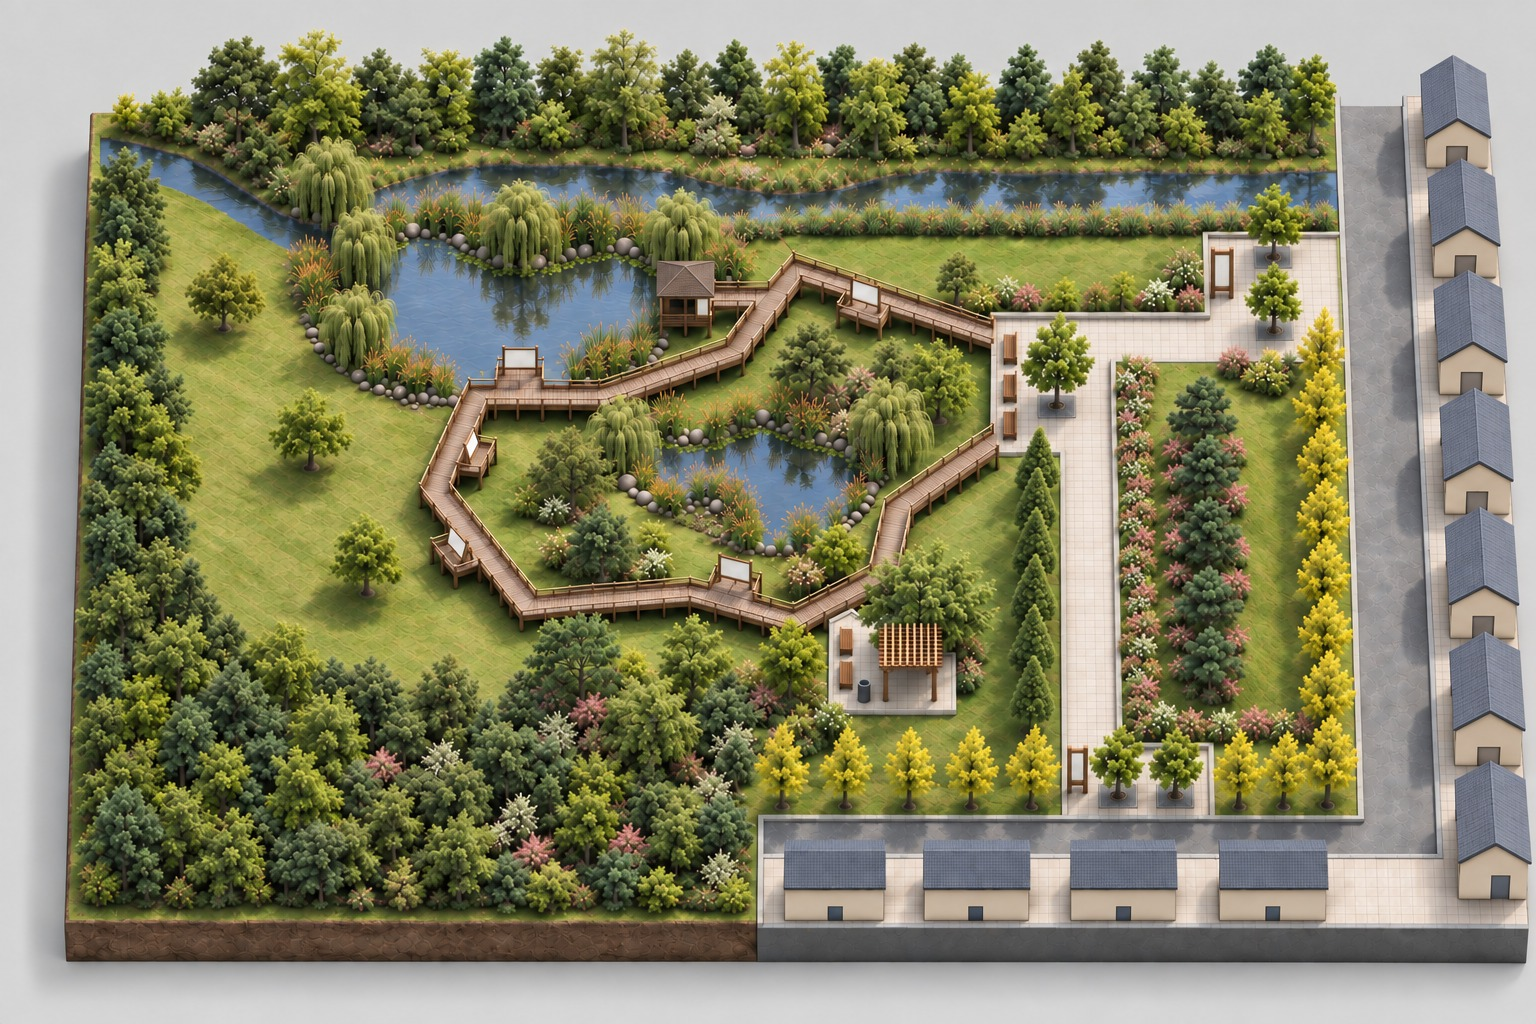
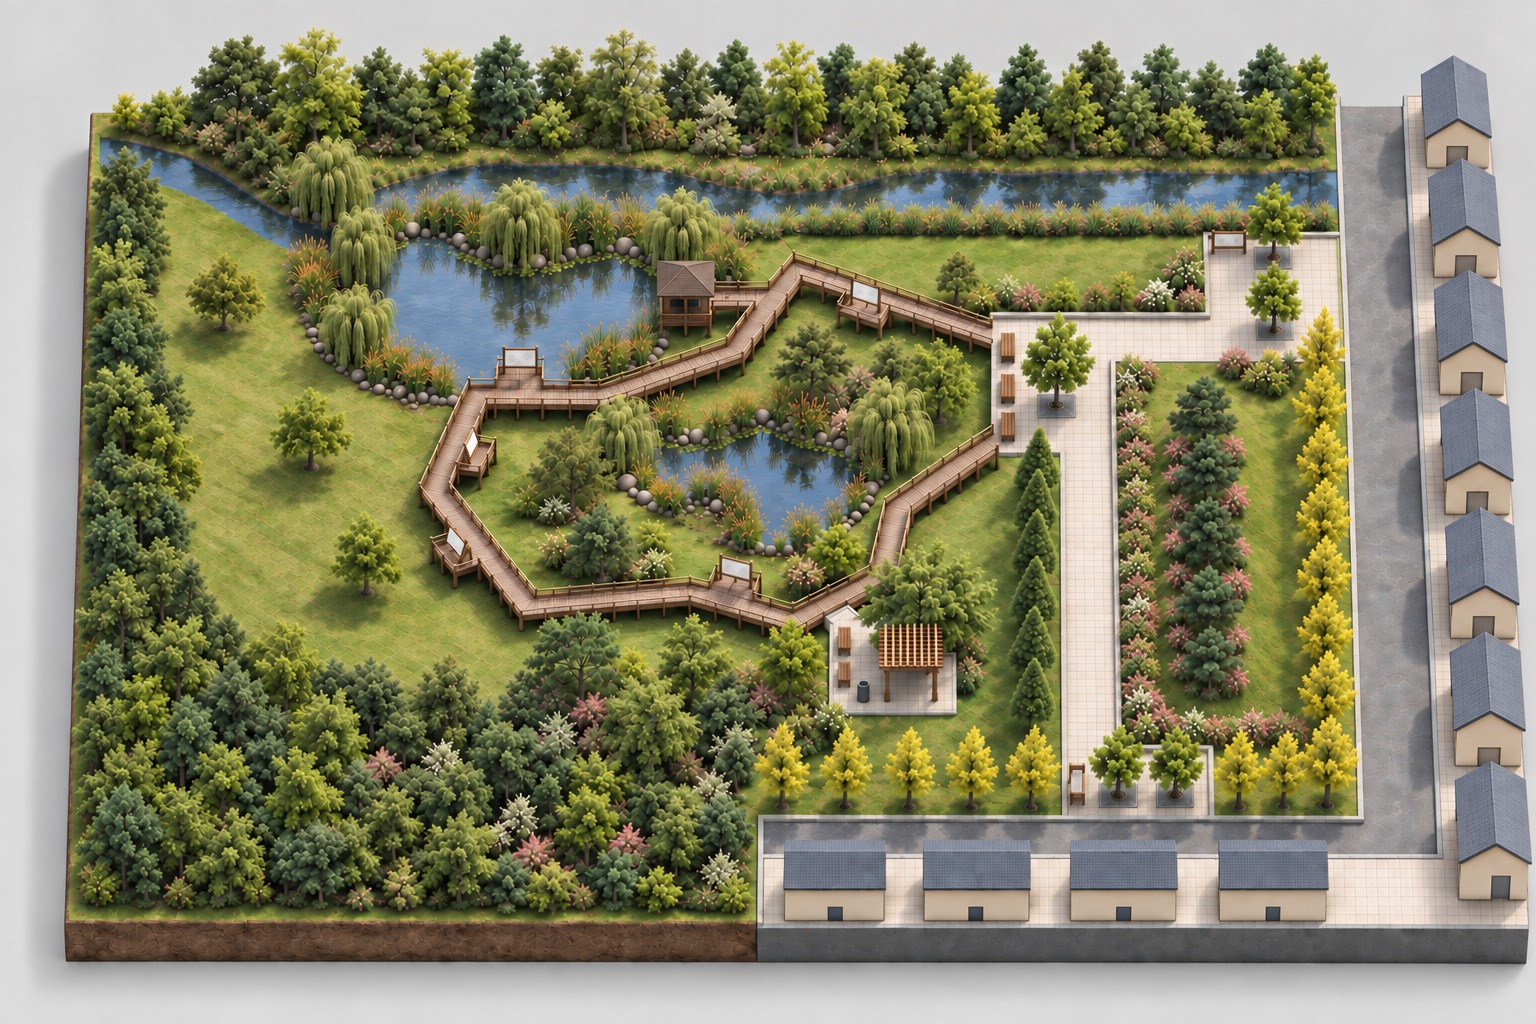
조감도·입체평면도 401: 진입광장 안내판 90도 회전, 판에 흐린 무늬
사용자 지적 셋. ① 진입광장 안내판이 포장과 관목이 만나는 경계선과 직각이라
어색하다 — 제자리에서 90도 돌려 그 선과 나란하게, 관목을 등지고 광장 안쪽을
바라보게 했다. ② 안내판은 도면처럼 진입광장마다 한 개씩. ③ 빈 미색 판이
오히려 눈을 끈다 — 읽히지 않을 만큼 흐린 회색 무늬(윗부분 작은 그림, 아래
글줄 두세 줄)를 넣어 질감을 주었다. 또렷한 글자는 없다.

관찰데크 5개와 조류관찰소 안내판은 제 데크 난간과 나란한 그대로 두었다.

조감도 12회차 선명도 2942(기준 2500), 입체평면도 21회차 1052(기준 1016).
입체평면도 평행투영 그대로 — 동측 도로 띠 왼끝 1353·1356·1361px,
좌변 -14px · 우변 +31px.

My 조감도는 같은 수정이 선명도를 1900 → 1567(-18%)로 떨어뜨려 기준(-12%)에
미달해 채택하지 않았다. 지금 배포본(9회차)을 그대로 둔다.

diff --git a/_ls_drawing_refs/401_입체평면도/content.md b/_ls_drawing_refs/401_입체평면도/content.md
@@ -1,5 +1,5 @@
 'My' 탭의 색 배치도와 '성운' 탭의 **기본설계도 · 배식설계도**를 GPT 이미지 모델
-(gpt-image-2.5-sunburst)에 주고 만든 **입체평면도**입니다(19회차).
+(gpt-image-2.5-sunburst)에 주고 만든 **입체평면도**입니다(21회차).
 
 '조감도' 탭과 달리 **원근이 없는 평행투영(축측투영)** 입니다. 멀리 있는 것도 가까이 있는 것과
 같은 크기로 그려지므로 **평면도와 그대로 견주어 볼 수 있습니다** — 주택 여덟 채가 모두 같은
@@ -73,6 +73,10 @@
 19. 다시 13회차로 돌아가 네 가지(가장자리 띠 · 평의자 3 · **판면을 아주 연한 미색으로** ·
     **진입광장 안내판을 광장 변과 나란히**)를 한 번에 그렸습니다(19회차). 선명도가 **1117** 로
     18회차(1038)보다 올랐고, 평행투영도 그대로입니다 — 동측 도로 띠 왼끝 1353·1356·1361px
+20·21. 다시 13회차로 돌아가 두 가지를 더했습니다 — **진입광장 안내판을 제자리에서 90° 돌려**
+    판의 긴 변이 포장과 관목이 만나는 경계선과 나란해지게 하고(그 전에는 직각), 빈 미색 판이
+    눈을 끌지 않도록 **읽히지 않을 만큼 흐린 회색 무늬**를 넣었습니다. 안내판은 **진입광장마다
+    하나씩**입니다. 선명도 1052, 평행투영 그대로
 
 > 회차마다 색 배치도와 배식설계도를 첫 두 참고 그림으로 다시 주고, 앞 회차 그림을 셋째로 줍니다.
 > 마스크 부분 수정이나 그림을 손으로 자르고 돌리는 일은 하지 않습니다.
@@ -95,7 +99,7 @@
 10회차 1351·1349·1361px, 16회차 1353·1356·1361px 로 같고, 모형 왼쪽 변 기울기도
 10회차 −18px, 16회차 −16px(730px 기준)로 같습니다.
 
-## 도면과 대조 (19회차)
+## 도면과 대조 (21회차)
 
 | 항목 | 도면 | 그림 |
 | --- | --- | --- |
@@ -113,16 +117,17 @@
 | 진입광장 | 2개소(북동 모서리 · 남측), 종합안내판 1 · 수목보호대 2씩, 도로로 바로 열림 | ✓ 보호대 합계 5개(모임광장 1 + 진입광장 2+2) |
 | 남북 동선 | 두 진입광장을 잇는 소형고압블록 포장 | ✓ 동측 도로와 평행 |
 | 배식 | 동선 서쪽 메타세쿼이아 열식 · 동쪽 마운딩에 소나무 7 + 철쭉 · 도로변 은행나무 열식 · 산림지구 다층림 · 저수지·관찰로 서쪽은 열린 잔디 | ✓ 마운딩은 잔디 언덕에 소나무 7주(13회차), 서쪽 변과 남쪽 변을 따라 끊기지 않는 꽃관목 띠(16회차) |
-| 안내판 판면 | — | ✓ 아주 연한 미색 — 옆 포장과 비슷한 밝기라 흰 점으로 도드라지지 않습니다. 진입광장 안내판도 광장 변과 나란히(19회차) |
+| 안내판 판면 | — | ✓ 아주 연한 미색에 **읽히지 않는 흐린 무늬** — 옆 포장과 비슷한 밝기 |
+| 안내판 방향·수 | — | ✓ 진입광장 안내판은 **포장·관목 경계선과 나란히**, 광장마다 **1개씩**. 관찰데크 5 · 조류관찰소 1 은 그대로 |
 | 글자 | 없음 | ✓ |
 
 남은 차이는 둘입니다. ① **저수지가 도면보다 조금 동쪽·넓습니다**(도면 부지 폭의 14~44%, 그림 약 19~50%). ② **남측 도로가 55% 지점에서 시작**합니다(도면 50%).
 
-비용은 19장 약 $0.92 입니다(16~19회차만 `xhigh` 품질이라 장당 $0.074).
+비용은 21장 약 $1.07 입니다(16~21회차만 `xhigh` 품질이라 장당 $0.074).
 
-## 프롬프트 — 마지막 회차(19회차, 참고: 색 배치도 + 배식설계도 + 13회차 그림)
+## 프롬프트 — 마지막 회차(21회차, 참고: 색 배치도 + 배식설계도 + 13회차 그림)
 
-13회차 그림을 함께 주고 고칠 넷만 적은 것입니다. 1~18회차 프롬프트는 뺐습니다.
+13회차 그림을 함께 주고 고칠 넷만 적은 것입니다. 1~20회차 프롬프트는 뺐습니다.
 
     The FIRST attached image is the colour-coded site plan of a small Korean ecological park. The SECOND is its hand-drawn planting plan. The THIRD attached image is a PHOTOREALISTIC axonometric render of the same park. Its LAYOUT, its CAMERA, its PARALLEL PROJECTION, its MATERIALS, its TEXTURES, its LIGHTING and every one of its objects are CORRECT and must be reproduced exactly. It stays photorealistic.
 
@@ -144,11 +149,15 @@
 
     DO NOT TOUCH THE OTHER SIGNBOARDS. The small blank white boards on the five timber viewing platforms of the boardwalk, and the one at the bird-watching hut, MUST ALL STAY - six boards in all, each with a pale off-white panel, at the same places, the same sizes and the same square alignment. Do not delete them, do not move them and do not turn them into benches. The large blank boards on the two entrance plazas also stay. Only the three frames on the gathering plaza change.
 
-    FIX 3 — THE BOARD PANELS ARE PALE OFF-WHITE, NEITHER GLARING WHITE NOR DARK.
-    Every signboard in the picture - the 5 small boards on the 5 timber viewing platforms, the 1 board beside the bird-watching hut, and the large boards on BOTH entrance plazas - carries a panel inside its timber frame. That panel is a VERY PALE OFF-WHITE, a soft warm greyish cream. Do NOT make it a glaring pure white, and do NOT make it dark timber or any dark colour. Its brightness must be CLOSE TO the brightness of the block paving right beside it, so that from far away it does not read as a white dot against the ground. Put only a few very faint lines on it and NO letters and NO text of any kind. Keep the timber frame and its legs exactly as they are, and do not remove or move any signboard.
+    FIX 3 — THE BOARD PANELS ARE PALE OFF-WHITE WITH VERY FAINT, UNREADABLE MARKINGS.
+    Every signboard in the picture - the 5 small boards on the 5 timber viewing platforms, the 1 board beside the bird-watching hut, and the large boards on BOTH entrance plazas - carries a panel inside its timber frame. That panel is a VERY PALE OFF-WHITE, a soft warm greyish cream, close in brightness to the block paving beside it so that it never reads as a bright white dot. On that panel, printed in VERY FAINT PALE GREY, is a simple notice: one small block of picture near the top and two or three short lines below it. Those markings must be SO FAINT AND SO BLURRED THAT THEY CANNOT BE READ - from a distance you can tell that something is printed on the board, but you cannot make out a single letter. Use no dark ink, no black strokes, no crisp lettering and no recognisable words in any language. The panel must NEVER be a smooth empty white surface, and it must NEVER carry legible text. Do not make the panel dark timber or any dark colour. Keep the timber frame and its legs exactly as they are, and do not remove or move any signboard.
 
-    FIX 4 — EVERY SIGNBOARD STANDS SQUARE TO THE PAVING BESIDE IT.
-    Every signboard stands square to the paving or the deck it is on: the long edge of each board is exactly PARALLEL to the nearest edge of that paving or deck, and its face looks straight out across it at a right angle. NOT ONE board is left skewed, tilted or turned at an odd angle. This applies ESPECIALLY to the two LARGE SIGNBOARDS ON THE ENTRANCE PLAZAS, which are at present turned at a careless angle - turn each of them so that its long edge runs exactly along the edge of its own plaza paving, in line with the kerb. The positions, sizes and pale panels of all the boards do not change.
+    HOW MANY SIGNBOARDS THERE ARE. Each entrance plaza carries EXACTLY ONE signboard, never two - count them: one on the southern entrance plaza, one on the north-eastern entrance plaza. The boardwalk carries 5, one on each of the 5 viewing platforms, and there is 1 beside the bird-watching hut. SEVEN signboards in all in the whole park, no more and no fewer. The gathering plaza has NO signboard at all - it has three timber benches.
+
+    FIX 4 — THE TWO ENTRANCE-PLAZA SIGNBOARDS ARE TURNED 90 DEGREES ON THE SPOT.
+    On each entrance plaza the large signboard stands right beside the line where the block paving meets the mass of shrubs at the edge of the plaza. At present the board's LONG EDGE CROSSES that line at a right angle, which looks wrong. TURN EACH OF THE TWO BOARDS 90 DEGREES ABOUT ITS OWN FEET, so that its LONG EDGE RUNS ALONG that paving-and-shrub line, exactly PARALLEL to it. Each board then stands with its BACK TO THE SHRUBS and its FACE LOOKING IN ACROSS THE PLAZA PAVING. Do not move either board from its spot and do not change its size - only its direction changes. Do this on BOTH entrance plazas, the southern one and the north-eastern one.
+
+    DO NOT TOUCH THE BOARDS ON THE BOARDWALK. The 5 small boards on the 5 timber viewing platforms and the 1 board beside the bird-watching hut are ALREADY RIGHT - each runs along its own deck rail. Leave their direction, position and size exactly as they are.
 
     SHARPNESS — RENDER THIS FRESH AT FULL RESOLUTION AND FULL DETAIL.
     Do not retouch or resample the third image: draw the whole picture again from scratch. Every part of it must be at least as crisp and as finely detailed as the third image is — the individual leaves in every canopy, the blades and mowing stripes in the turf, the board joints and grain of the boardwalk, the joints of the block paving, the roof tiles of the houses, the pebbles at the water edge. Nothing may come out softer, blurrier, smoother or more washed out than in the third image.
@@ -170,4 +179,4 @@
 
     EVERYTHING ELSE IS EXACTLY AS IN THE THIRD IMAGE: the stream across the top with wooded hillside beyond; the reservoir with its willows, reed beds and shoreline stones; the wetland pond; ONE closed angular ring of raised timber boardwalk with EXACTLY 5 viewing platforms, each carrying one board with a pale off-white panel; EXACTLY 1 bird-watching hut on the reservoir's lower-right shore; the rest area with EXACTLY 1 pergola, 2 benches and 1 litter bin under shade trees; the gathering plaza with its EXACTLY 1 tree in a square grate; EXACTLY 2 trees in grates and 1 blank board on the top-right entrance plaza; EXACTLY 2 trees in grates and 1 blank board on the bottom entrance plaza — FIVE tree grates in all; ONE single row of about 12 dawn redwoods on the grass immediately LEFT of the straight path; ONE single row of ginkgos inside the right-hand road continuing inside the bottom road; open mown lawn west of the ring and west of the reservoir with only three or four isolated specimen trees; the dense multi-layered woodland only in the lower left and lower middle.
 
-    STRICT RULES: no new buildings, plazas, paths, bridges, fences, walls, cars or people; every board carries a pale off-white panel with no writing on it; NO text, letters, numbers, labels, legends, arrows, north arrow, scale bar, grid lines, dimension lines or watermark anywhere.
+    STRICT RULES: no new buildings, plazas, paths, bridges, fences, walls, cars or people; NO text, letters, numbers, labels, legends, arrows, north arrow, scale bar, grid lines, dimension lines or watermark anywhere in the picture. The ONLY exception is the very faint, blurred, unreadable grey markings on the signboard panels described above - they must stay illegible.

diff --git a/_ls_drawing_refs/401_조감도/content.md b/_ls_drawing_refs/401_조감도/content.md
@@ -1,5 +1,5 @@
 '성운' 탭의 **답안지 II · 기본설계도**와 **답안지 III · 배식설계도**, 문제지 조건으로 만든 **입체 조감도**입니다.
-**GPT**(gpt-image-2.5-sunburst, 10회차)로 그렸습니다. 남동쪽 상공에서 북서쪽을 내려다본 시점이라 **도면의 북쪽이 그림의 위**입니다 —
+**GPT**(gpt-image-2.5-sunburst, 12회차)로 그렸습니다. 남동쪽 상공에서 북서쪽을 내려다본 시점이라 **도면의 북쪽이 그림의 위**입니다 —
 실개천이 위, 기존수림이 왼쪽, 6m 도로와 주택가가 오른쪽·아래입니다.
 
 ## 만든 방법 — 1회차 그림에서 **한 번에**
@@ -18,12 +18,17 @@
    옆 포장과 비슷한 밝기라 멀리서 흰 점으로 보이지 않습니다. 함께 **두 진입광장의 안내판이
    비스듬히 틀어져 있던 것**을 광장 포장 변과 나란히 돌려 세웠습니다(관찰데크 쪽은 9회차에 이미 나란해졌습니다).
    선명도는 **3100** 으로 또 올랐습니다
+5. 11·12회차에 두 가지를 더 고쳤습니다 — ⑬ **진입광장 안내판을 제자리에서 90° 돌려** 판의 긴 변이
+   포장과 관목이 만나는 경계선과 **나란해지게**(그 전에는 직각이라 어색했습니다) 하고, 관목을 등지고
+   광장 안쪽을 바라보게 했습니다. ⑭ 빈 미색 판이 오히려 눈을 끌어, 판에 **읽히지 않을 만큼 흐린
+   회색 무늬**(윗부분 작은 그림, 아래 글줄 두세 줄)를 넣어 질감을 주었습니다.
+   안내판은 도면대로 **진입광장마다 하나씩**입니다
 
 > **덧그리기는 곧 화질입니다.** 고칠 것이 생기면 마지막 그림 위에 얹지 말고, **덧그림이 적은 앞 회차로 돌아가
 > 고칠 것을 모두 한 프롬프트에 모아** 다시 그리는 편이 낫습니다. 같은 방식으로 'My' 탭 조감도와 '입체평면도'도 고쳤습니다.
 > 마스크 부분 수정이나 그림을 손으로 자르고 돌리는 일은 하지 않습니다.
 
-## 도면과 대조 (10회차)
+## 도면과 대조 (12회차)
 
 | 도면(성운 답안) | 결과 |
 | --- | --- |
@@ -36,14 +41,15 @@
 | 모임광장 — 습지 동쪽, 수목보호대 1 · **평의자 3** | ✓ 시설물 수량표가 평의자 8 · 안내판 6 · 종합안내판 1 인데 안내판 6은 관찰데크 5 + 조류관찰소 1 로 다 차므로, 평의자 8 − 휴게공간 5 = 3 이 모임광장 몫입니다 |
 | 진입광장 2 — 북동 모서리 · 남측, 종합안내판 1 · 수목보호대 2씩, 소형고압블록 | ✓ 안내판은 서쪽 변, 광장이 도로로 바로 열림. 북동 광장 북쪽 은행나무는 보호대 없이 녹지에 |
 | 두 진입광장을 잇는 남북 동선, 서쪽 메타세쿼이아 열식, 동쪽 마운딩에 소나무 7 · 철쭉, 도로변 은행나무 열식 | ✓ 마운딩은 **봉긋한 잔디 둔덕**이고 서쪽 변과 남쪽 변을 따라 **끊기지 않는 꽃관목 띠**를 둘렀습니다 |
-| 안내판 판면 | ✓ 아주 연한 미색 — 옆 포장과 비슷한 밝기라 흰 점으로 도드라지지 않습니다. 진입광장 안내판도 광장 포장 변과 나란히 돌려 세웠습니다(10회차) |
+| 안내판 판면 | ✓ 아주 연한 미색에 **읽히지 않는 흐린 무늬** — 옆 포장과 비슷한 밝기라 도드라지지 않습니다 |
+| 안내판 방향·수 | ✓ 진입광장 안내판은 **포장·관목 경계선과 나란히**(관목을 등지고 광장을 바라봄), 광장마다 **1개씩**. 관찰데크 5 · 조류관찰소 1 은 제 데크 난간과 나란한 그대로 |
 | 글자 없음 | ✓ |
 
-비용은 10장 약 $0.46 입니다(8~10회차만 `xhigh` 품질이라 장당 $0.074).
+비용은 12장 약 $0.61 입니다(8~12회차만 `xhigh` 품질이라 장당 $0.074).
 
-## 프롬프트 — 마지막 회차(10회차, 참고: 기본설계도 + 배식설계도 + 1회차 그림)
+## 프롬프트 — 마지막 회차(12회차, 참고: 기본설계도 + 배식설계도 + 1회차 그림)
 
-1회차 그림을 함께 주고 고칠 열두 가지를 한꺼번에 적은 것입니다. 1~9회차 프롬프트는 뺐습니다.
+1회차 그림을 함께 주고 고칠 것을 한꺼번에 적은 것입니다. 1~11회차 프롬프트는 뺐습니다.
 
     The FIRST attached image is the site and facilities plan of a small Korean ecological park (north is up in the drawing). The SECOND attached image is the planting plan of the same site. These two drawings are the ground truth for WHAT is where.
 
@@ -69,13 +75,17 @@
 
     9. GATHERING PLAZA — THREE BENCHES, NO BOARDS. The gathering plaza is the paved square on the east side of the marsh where the boardwalk loop meets the paths, the one with a single shade tree growing in a square tree grate. On its WEST edge, in the strip of paving between the timber boardwalk deck and that tree, stand EXACTLY 3 flat backless BROWN TIMBER BENCHES in a row, evenly spaced, all identical. Count them: one bench, two benches, three benches. There is NO signboard, NO upright panel and NO standing board of any kind anywhere on this plaza.
 
-    12. THE BOARD PANELS ARE PALE OFF-WHITE, NEITHER GLARING WHITE NOR DARK.
-    Every signboard in the picture - the 5 small boards on the 5 timber viewing platforms, the 1 board beside the bird-watching hut, and the large boards on BOTH entrance plazas - carries a panel inside its timber frame. That panel is a VERY PALE OFF-WHITE, a soft warm greyish cream. Do NOT make it a glaring pure white, and do NOT make it dark timber or any dark colour. Its brightness must be CLOSE TO the brightness of the block paving right beside it, so that from far away it does not read as a white dot against the ground. Put only a few very faint lines on it and NO letters and NO text of any kind. Keep the timber frame and its legs exactly as they are, and do not remove or move any signboard.
+    12. THE BOARD PANELS ARE PALE OFF-WHITE WITH VERY FAINT, UNREADABLE MARKINGS.
+    Every signboard in the picture - the 5 small boards on the 5 timber viewing platforms, the 1 board beside the bird-watching hut, and the large boards on BOTH entrance plazas - carries a panel inside its timber frame. That panel is a VERY PALE OFF-WHITE, a soft warm greyish cream, close in brightness to the block paving beside it so that it never reads as a bright white dot. On that panel, printed in VERY FAINT PALE GREY, is a simple notice: one small block of picture near the top and two or three short lines below it. Those markings must be SO FAINT AND SO BLURRED THAT THEY CANNOT BE READ - from a distance you can tell that something is printed on the board, but you cannot make out a single letter. Use no dark ink, no black strokes, no crisp lettering and no recognisable words in any language. The panel must NEVER be a smooth empty white surface, and it must NEVER carry legible text. Do not make the panel dark timber or any dark colour. Keep the timber frame and its legs exactly as they are, and do not remove or move any signboard.
+
+    HOW MANY SIGNBOARDS THERE ARE. Each entrance plaza carries EXACTLY ONE signboard, never two - count them: one on the southern entrance plaza, one on the north-eastern entrance plaza. The boardwalk carries 5, one on each of the 5 viewing platforms, and there is 1 beside the bird-watching hut. SEVEN signboards in all in the whole park, no more and no fewer. The gathering plaza has NO signboard at all - it has three timber benches.
 
     10. THE OTHER BOARDS ALL STAY. The 5 small blank boards on the 5 observation decks and the 1 blank board beside the timber bird-watching hide at the pond must ALL be there — SIX boards in all, each with a pale off-white panel. Do not delete them, do not move them and do not turn them into benches. The large signboards on the two entrance plazas also stay.
 
-    11. EVERY SIGNBOARD STANDS SQUARE TO THE PAVING BESIDE IT.
-    Every signboard stands square to the paving or the deck it is on: the long edge of each board is exactly PARALLEL to the nearest edge of that paving or deck, and its face looks straight out across it at a right angle. NOT ONE board is left skewed, tilted or turned at an odd angle. This applies ESPECIALLY to the two LARGE SIGNBOARDS ON THE ENTRANCE PLAZAS, which are at present turned at a careless angle - turn each of them so that its long edge runs exactly along the edge of its own plaza paving, in line with the kerb. The positions, sizes and pale panels of all the boards do not change.
+    11. THE TWO ENTRANCE-PLAZA SIGNBOARDS ARE TURNED 90 DEGREES ON THE SPOT.
+    On each entrance plaza the large signboard stands right beside the line where the block paving meets the mass of shrubs at the edge of the plaza. At present the board's LONG EDGE CROSSES that line at a right angle, which looks wrong. TURN EACH OF THE TWO BOARDS 90 DEGREES ABOUT ITS OWN FEET, so that its LONG EDGE RUNS ALONG that paving-and-shrub line, exactly PARALLEL to it. Each board then stands with its BACK TO THE SHRUBS and its FACE LOOKING IN ACROSS THE PLAZA PAVING. Do not move either board from its spot and do not change its size - only its direction changes. Do this on BOTH entrance plazas, the southern one and the north-eastern one.
+
+    DO NOT TOUCH THE BOARDS ON THE BOARDWALK. The 5 small boards on the 5 timber viewing platforms and the 1 board beside the bird-watching hut are ALREADY RIGHT - each runs along its own deck rail. Leave their direction, position and size exactly as they are.
 
     WHAT MUST NOT CHANGE:
     - The same camera and the same true perspective: an oblique aerial view from the SOUTH-EAST looking north-west, tilted about 45 degrees, with the stream at the top of the picture. The same framing and crop, the same late-spring daylight and soft shadows, the same colour balance.
@@ -86,4 +96,4 @@
 
     RENDER IT FRESH AT MAXIMUM RESOLUTION AND MAXIMUM DETAIL — this matters as much as the twelve fixes. Draw the whole picture again; do not retouch, soften or resample the third image. Every part must be at least as crisp and as finely detailed as the third image: the individual leaves in every canopy, the blades of the turf, the grain and board joints of the boardwalk, the individual blocks of the paving, the rocks at the water's edge, the roof tiles of the houses. Do not simplify, smooth or average any texture.
 
-    STRICT RULES: no new buildings, plazas, paths, bridges, fences, walls, cars or people; every board carries a pale off-white panel with no writing on it; NO text, letters, numbers, labels, legends, arrows, north arrow, scale bar, grid lines, dimension lines or watermark anywhere in the picture.
+    STRICT RULES: no new buildings, plazas, paths, bridges, fences, walls, cars or people; NO text, letters, numbers, labels, legends, arrows, north arrow, scale bar, grid lines, dimension lines or watermark anywhere in the picture. The ONLY exception is the very faint, blurred, unreadable grey markings on the signboard panels described above - they must stay illegible.
